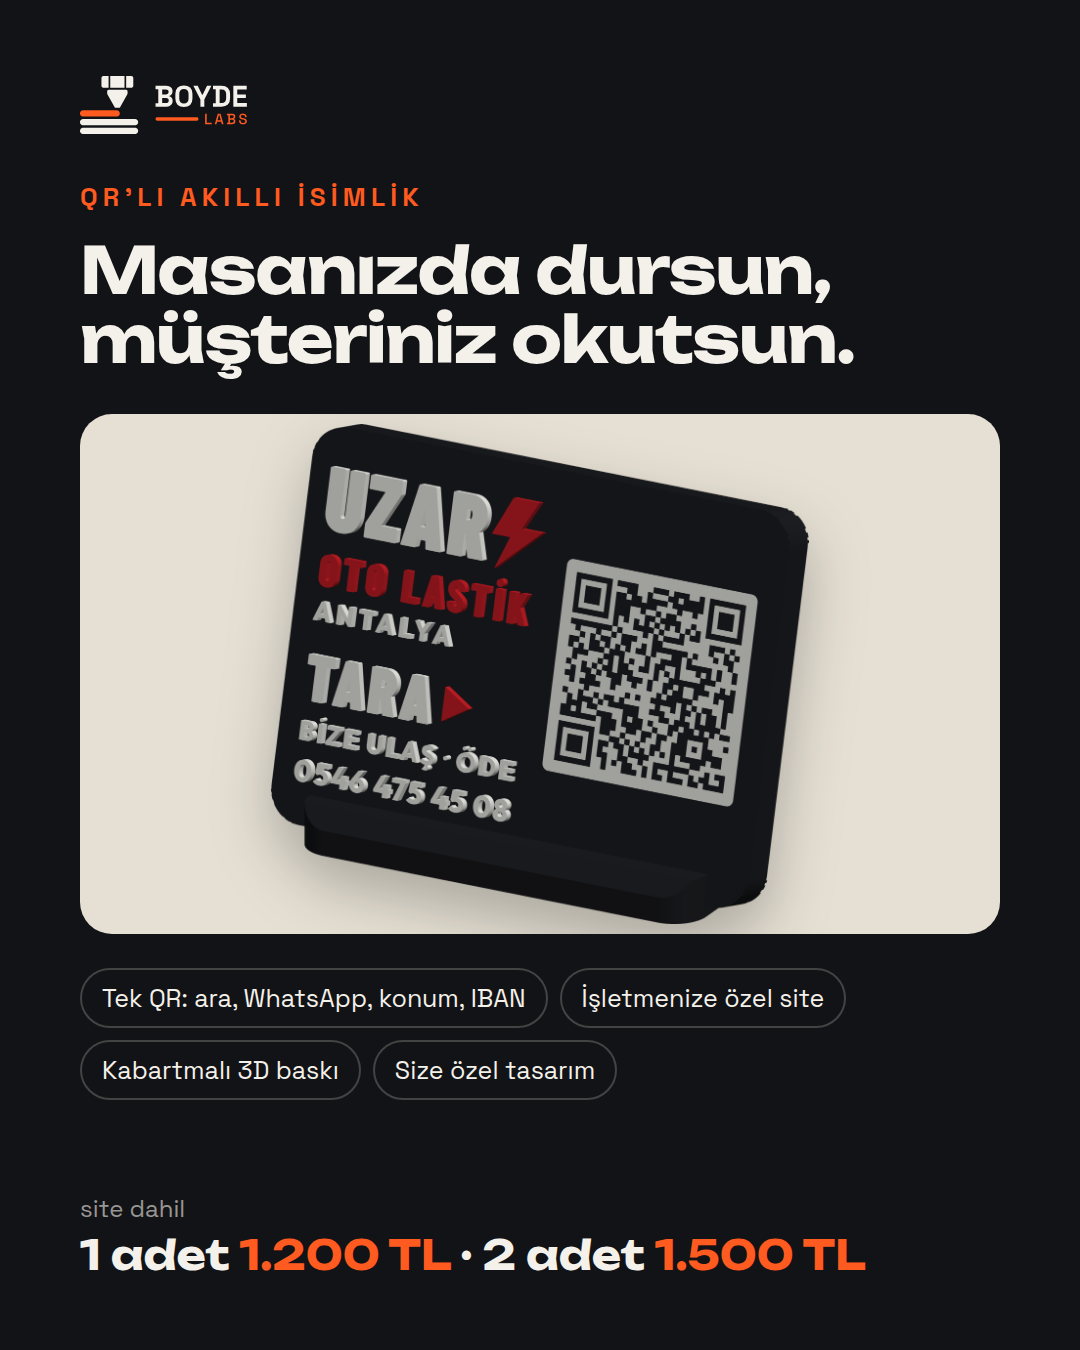
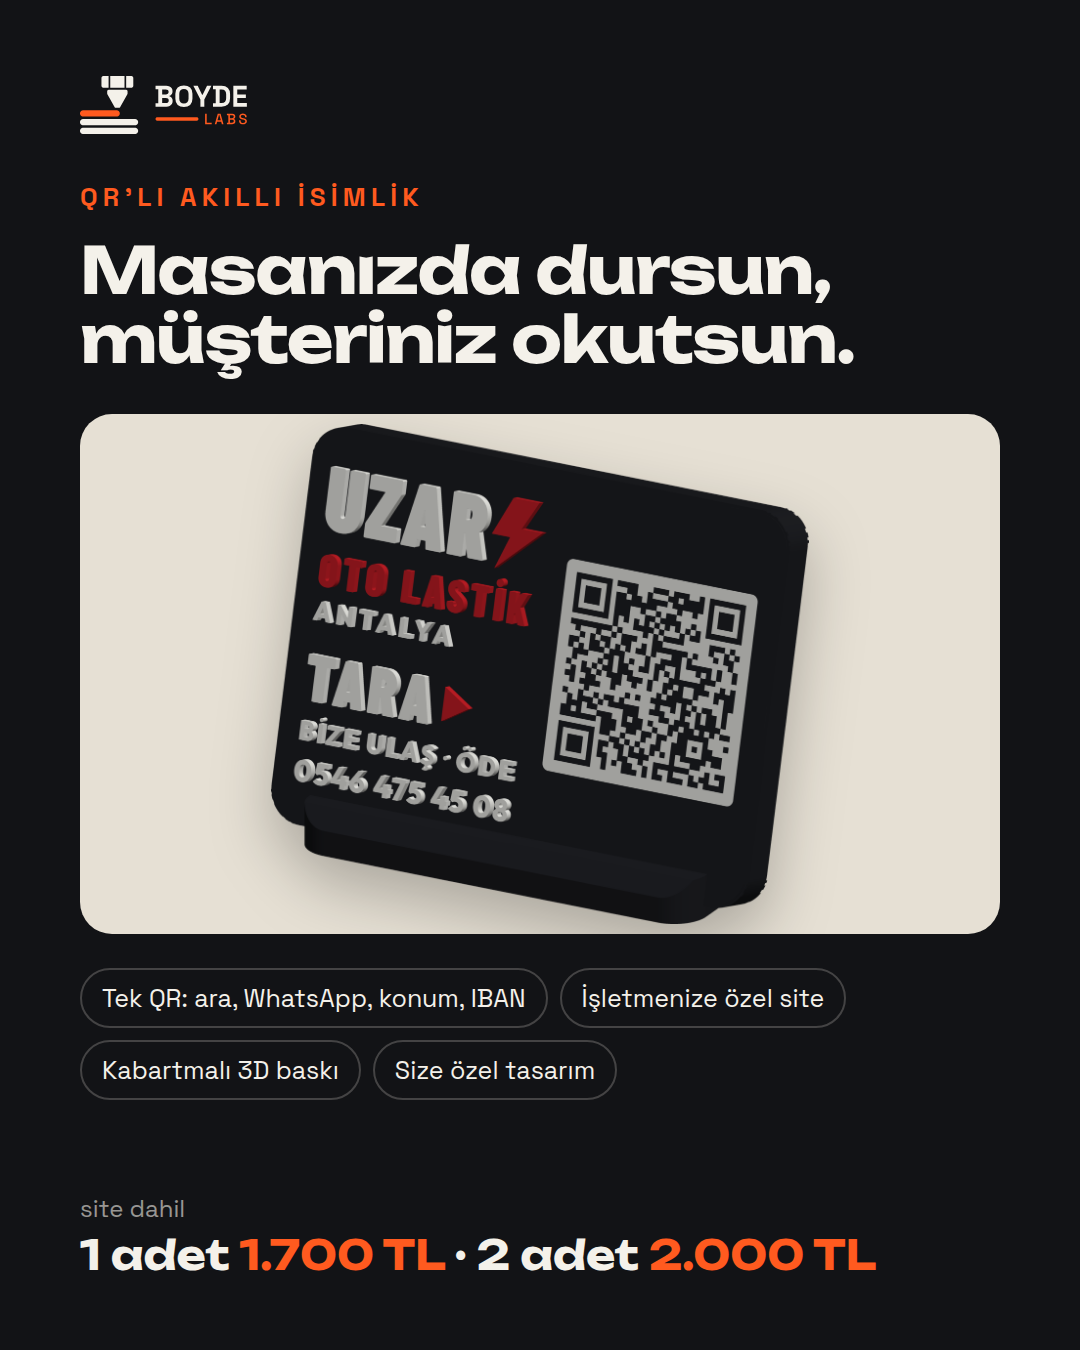
BOYDE LABS: fiyat 1 adet 1.700 TL, 2 adet 2.000 TL
Instagram ürün gönderisi ve kılavuzdaki önizlemesi.

Claude-Session: https://claude.ai/code/session_01DYSZWrkNx3UmjJ19VqHJCk

Changed region(s): [[0.2444, 0.9022, 0.7944, 0.9644]]

diff --git a/scripts/boyde_marka.py b/scripts/boyde_marka.py
@@ -1569,8 +1569,8 @@ def kit(P, n):
         <div style="margin-top:34px;display:flex;flex-wrap:wrap;gap:12px">{chip_html}</div></div>
       <div style="position:absolute;left:80px;right:80px;bottom:70px;display:flex;justify-content:space-between;
         align-items:flex-end"><div><p style="font-size:24px;color:rgba(244,241,234,.6)">site dahil</p>
-        <p class="u" style="margin-top:6px;font-size:40px;font-weight:700">1 adet <span style="color:{ORANGE}">1.200 TL
-        </span> · 2 adet <span style="color:{ORANGE}">1.500 TL</span></p></div></div></div>""",
+        <p class="u" style="margin-top:6px;font-size:40px;font-weight:700">1 adet <span style="color:{ORANGE}">1.700 TL
+        </span> · 2 adet <span style="color:{ORANGE}">2.000 TL</span></p></div></div></div>""",
           1080, 1350, os.path.join(ig, "gonderi_2_urun.png"))
 
     steps = [("Shopier'dan sipariş verin", "Adet seçin, ödemeyi güvenle Shopier'dan yapın."),
